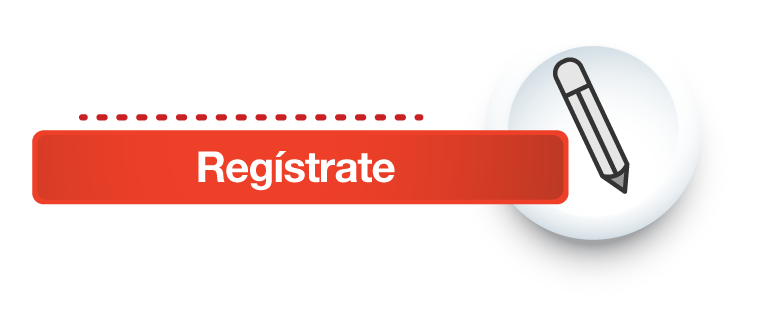
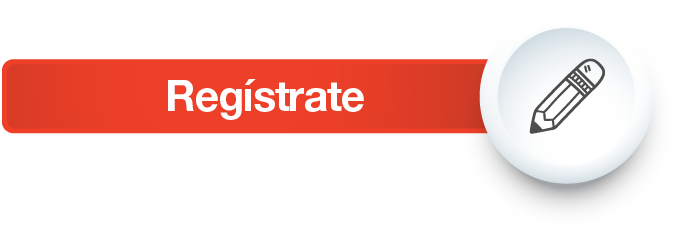
Ajustes cliente fiel y ganadores

Changed region(s): [[0.0, 0.1162, 0.9448, 0.8423]]

diff --git a/css/desktop-clientefiel.css b/css/desktop-clientefiel.css
@@ -30,10 +30,9 @@ a:hover, a:active, a:focus {
 }
 
 .nav .lrv-logo {
-  height: 30px;
-  align-self: flex-end;
-  margin-left: auto;
-  margin-bottom: 10px;
+  height: 50px;
+  margin-left: 50px;
+  margin-top: 10px;
 }
 
 
@@ -341,7 +340,7 @@ a:hover.banner-link {
 }
 
 .row-flex.menu {
-  justify-content: center;
+  justify-content: space-around;
   align-items: center;
   padding: 20px 0 0;
 }

diff --git a/css/desktop-concursos.css b/css/desktop-concursos.css
@@ -29,13 +29,15 @@ a:hover, a:active, a:focus {
   height: 70px;
 }
 
-.nav .lrv-logo {
-  height: 30px;
-  align-self: flex-end;
-  margin-left: auto;
-  margin-bottom: 10px;
+.bg-header {
+  background-image: url('../images/bg-header.png');
+  padding: 20px;
+background-size: cover;
 }
 
+.lrv-logo {
+  width: 180px;
+}
 
 .banner-text {
   top: 200px;

diff --git a/protected/views/campania/impormedical.php b/protected/views/campania/impormedical.php
@@ -120,7 +120,7 @@
   <section class="primera-seccion" style="height: initial;">
     <h1 style="font-size:35px; line-height: 42px;">Dispositivos para Profesionales de la Salud</h1>
     <p style="width: 90%;margin-bottom: 25px;color:#8B8B8B;text-align:center;">
-      Nuestro amplio portafolio de soluciones para profesionales de la salud, facilita la calidad en el servicio y favorece el cuidado de la salud en lo usuarios. La marca GMD brinda innovación, variedad de colores, variedad de productos, dentro de estos podemos encontrar fonendoscopios, tensiómetros, kit de órganos y sentidos, termómetros, martillos, linternas, entre otros.
+      Nuestro amplio portafolio de soluciones para profesionales de la salud, facilita la calidad en el servicio y favorece el cuidado de la salud en lo usuarios. La marca GMD brinda innovación, variedad de colores y variedad de productos, dentro de estos podemos encontrar fonendoscopios, tensiómetros, kit de órganos y sentidos, termómetros, martillos, linternas, entre otros.
     </p>
   </section>
   <div class="megacontainer">
@@ -385,7 +385,7 @@
   <img class="img-responsive banner" src="<?= Yii::app()->request->baseUrl ?>/images/contenido/impormedical/img_banner_ppal.jpg" alt="Para eliminar las imperfecciones">
   <section class="primera-seccion">
     <h1>Dispositivos para Profesionales de la Salud</h1>
-    <p>Nuestro amplio portafolio de soluciones para profesionales de la salud, facilita la calidad en el servicio y favorece el cuidado de la salud en lo usuarios. La marca GMD brinda innovación, variedad de colores, variedad de productos, dentro de estos podemos encontrar fonendoscopios, tensiómetros, kit de órganos y sentidos, termómetros, martillos, linternas, entre otros. </p>
+    <p>Nuestro amplio portafolio de soluciones para profesionales de la salud, facilita la calidad en el servicio y favorece el cuidado de la salud en lo usuarios. La marca GMD brinda innovación, variedad de colores y variedad de productos, dentro de estos podemos encontrar fonendoscopios, tensiómetros, kit de órganos y sentidos, termómetros, martillos, linternas, entre otros.</p>
   </section>
   <div class="megacontainer">
     <div class="contenedor-flex">
@@ -421,19 +421,21 @@
         </div>
         <div class="second-column">
           <h3>Kit de Tensiómetro + Fonendoscopio Rappaport GMD</h3>
-          <p>Es un instrumento de diagnóstico para la medición de la presión arterial y auscultaciones en general</p>
-          <p>Diseño y colores innovadores en presentación de estuche para fácil transporte y almacenamiento</p>
+          <ul>
+            <li>Es un instrumento de diagnóstico para la medición de la presión arterial y auscultaciones en general.</li>
+            <li>Diseño y colores innovadores en presentación de estuche para fácil transporte y almacenamiento.</li>
+          </ul>
           <div class="contenedor-colores">
-            <h4 style="Color:#444444;">Colores  Disponibles:</h4>
+            <h4 style="color:#444444;margin: 25px 0 0;font-size:15px;">Colores disponibles:</h4>
             <div class="cuadros-colores">
               <div class="item">
                 <div class="color-ceruleo"></div>
-                <span class="letradeloscolores">Azul Cerúleo</span>
+                <span class="letradeloscolores">Azul cerúleo</span>
               </div>
             </div>
             <div class="section-compra">
               <div class="column columna-precio"><h2>$00000</h2></div>
-              <div class="column columna-boton"><a href="#"><button class="boton-compra">Compra</button></a></div>
+              <div class="column columna-boton"><a href="#"><button class="boton-compra">Comprar</button></a></div>
             </div>
           </div>
         </div>
@@ -506,7 +508,7 @@
             <h4 class="centradotitulo"> Linterna de Diagnóstico GMD <br> &nbsp;</h4>
             <div class="div-flex">
               <div class="colum1">
-                <span class="textocolorproducto">Descripción: <br> Incorpora tecnología luz LED </span>
+                <span class="textocolorproducto">Descripción: <br> Incorpora tecnología luz LED <br> &nbsp;</span>
               </div>
               <div class="column2">
                 <div class="div-colores">
@@ -529,7 +531,7 @@
             <h4 class="centradotitulo"> Kit de Órganos y Sentidos con Fibra Óptica GMD</h4>
             <div class="div-flex">
               <div class="colum1">
-                <span class="textocolorproducto">Descripción: <br> Dos bases, dos cabezales</span>
+                <span class="textocolorproducto">Descripción: <br> Dos bases, dos cabezales <br> &nbsp;</span>
               </div>
               <div class="column2">
                 <div class="div-colores">
@@ -561,7 +563,7 @@
             <div class="div-flex">
               <div class="colum1">
                 <span class="textocolorproducto">Modelos:</span><br>
-                <span class="textocolorproducto">Rana, Oso, Flex II, Tempo II </span>
+                <span class="textocolorproducto">Rana, Oso, Flex II, Tempo II  <br> &nbsp;</span>
               </div>
 
             </div>
@@ -584,13 +586,15 @@
         </div>
         <div class="second-column">
           <h3>Sistema de Disección GMD </h3>
-          <p> Es un instrumento quirúrgico que contiene todos los elementos necesarios para llevar acabo estudios o procedimientos pequeños a nivel de anatomía o procedimientos incisivos</p>
-          <p>Todos sus piezas están fabricadas en acero inoxidable </p>
-          <p> Práctico estuche con cremallera   </p>
+          <ul>
+            <li> Es un instrumento quirúrgico que contiene todos los elementos necesarios para llevar acabo estudios o procedimientos pequeños a nivel de anatomía o procedimientos incisivos.</li>
+            <li>Todos sus piezas están fabricadas en acero inoxidable.</li>
+            <li> Práctico estuche con cremallera.</li>
+          </ul>
           <div class="contenedor-colores">
             <div class="section-compra">
               <div class="column columna-precio"><h2>$00000</h2></div>
-              <div class="column columna-boton"><a href="#"><button class="boton-compra">Compra</button></a></div>
+              <div class="column columna-boton"><a href="#"><button class="boton-compra">Comprar</button></a></div>
             </div>
           </div>
         </div>
@@ -624,13 +628,15 @@
         </div>
         <div class="second-column">
           <h3>Tijeras GMD </h3>
-          <p>Tijera trauma corta todo.</p>
-          <p>Utilizada principlamente en hospitales, clínicas, atención proehospitarlia, enfermería y primeros auxilios - Es un equipo indispensable en botiquines.</p>
-          <p> Es un equipo indispensable en botiquines y maletines de primeros auxilios. </p>
+          <ul>
+            <li>Tijera trauma corta todo.</li>
+            <li>Utilizada principlamente en hospitales, clínicas, atención prehospitarlia, enfermería y primeros auxilios.</li>
+            <li>Es un equipo indispensable en botiquines y maletines de primeros auxilios. </li>
+          </ul>
           <div class="contenedor-colores">
             <div class="section-compra">
               <div class="column columna-precio"><h2>$00000</h2></div>
-              <div class="column columna-boton"><a href="#"><button class="boton-compra">Compra</button></a></div>
+              <div class="column columna-boton"><a href="#"><button class="boton-compra">Comprar</button></a></div>
             </div>
           </div>
         </div>
@@ -664,13 +670,15 @@
       </div>
     </div>
     <div class="info-footer">
-      <div class="column footertexto">
-        <h1>¿Controlas la Presión con Exactitud?</h1>
-        <p style="color:#828282;font-size: 21px;">Conoce más sobre los productos de Control y Prevención <a href="#" style="color:#F2672A; text-decoration:underline;">aquí</a>  </p>
-      </div>
-      <div class="column footerimagen">
-        <img class="img-responsive" src="<?= Yii::app()->request->baseUrl ?>/images/contenido/impormedical/img_banner_prevencion.jpg" alt="Para eliminar las imperfecciones">
-      </div>
+      <a href="<?php echo CController::createUrl('/catalogo/producto', array('producto' => 117764)) ?> " style="color:inherit;">
+        <div class="column footertexto">
+          <h1>¿Controlas la Presión con Exactitud?</h1>
+          <p style="color:#828282;font-size: 21px;">Conoce más sobre los productos de Control y Prevención <a href="#" style="color:#F2672A; text-decoration:underline;">aquí</a>  </p>
+        </div>
+        <div class="column footerimagen">
+          <img class="img-responsive" src="<?= Yii::app()->request->baseUrl ?>/images/contenido/impormedical/img_banner_prevencion.jpg" alt="Para eliminar las imperfecciones">
+        </div>
+      </a>
     </div>
     <div class="contacto">
       <img class="img-responsive banner-footer" src="<?= Yii::app()->request->baseUrl ?>/images/contenido/impormedical/img_iconos_footer.png" alt="Para eliminar las imperfecciones">

diff --git a/protected/views/layouts/_d_clienteFiel.php b/protected/views/layouts/_d_clienteFiel.php
@@ -20,12 +20,12 @@
 </head>
 <body>
     <nav class="nav">
-      <div class="contenedor-flex">
+      <div class="contenedor-flex" style="display: flex; justify-content: center;">
       	<a title="Cliente Fiel - La Rebaja Virtual" href="<?php echo $this->createUrl('/clientefiel') ?>"><img class="img img-responsive clientefiel-logo" src="<?php echo Yii::app()->request->baseUrl; ?>/images/clientefiel/clientefiel.png" alt=""></a>
       	<a title="Drogueria - La Rebaja Virtual" href="<?php echo $this->createUrl('/') ?>"><img class="img img-responsive lrv-logo" src="<?php echo Yii::app()->request->baseUrl; ?>/images/clientefiel/lrv.png" alt=""></a>
       </div>
     </nav>
-	
+
     <div class="banner">
       <div class="contenedor-flex txt-banner">
         <h3 class="banner-text">El programa que te da 10% de descuento <br> <span class="emphasis">en todas tus compras*</span></h3>
@@ -36,12 +36,19 @@
     <div class="menu-principal">
       <div class="contenedor-flex">
         <div class="row-flex menu">
-            <div class="btn <?= ($this->menuActivo == 'index') ? 'btn-flat' : 'btn-primary' ?> btn-lg ">
-              <a href="<?php echo Yii::app()->createUrl('clientefiel/sitio/index') ?>">¿Comó funciona?</a>
-            </div>
-            <div class="btn <?= ($this->menuActivo == 'cuenta') ? 'btn-flat' : 'btn-primary' ?> btn-lg " type="button" name="button">
-                <a href="<?php echo Yii::app()->createUrl('clientefiel/registro/realizarRegistro') ?>">Regístrate</a>
-            </div>
+          <div class="">
+            <a href="<?php echo Yii::app()->createUrl('clientefiel/sitio/index') ?>">
+              <img class="img-responsive" width="400" src="<?php echo Yii::app()->request->baseUrl; ?>/images/clientefiel/boton-funciona.png" alt="Como funciona">
+            </a>
+          </div>
+
+          <div class="">
+            <a href="<?php echo Yii::app()->createUrl('clientefiel/registro/realizarRegistro') ?>">
+              <img class="img-responsive" width="400" src="<?php echo Yii::app()->request->baseUrl; ?>/images/clientefiel/boton-registrate.png" alt="Registrarse">
+            </a>
+          </div>
+
+
         </div>
       </div>
     </div>

diff --git a/protected/views/layouts/_d_concursos.php b/protected/views/layouts/_d_concursos.php
@@ -20,17 +20,21 @@
 </head>
 <body>
 
-<img class="img-responsive" src="<?php echo Yii::app()->request->baseUrl; ?>/images/barra-sup-ganadores.png">
+<div class="bg-header">
+  <a title="Drogueria - La Rebaja Virtual" href="<?php echo $this->createUrl('/') ?>">
+    <img class="lrv-logo" src="<?php echo Yii::app()->request->baseUrl; ?>/images/clientefiel/lrv.png" alt="">
+  </a>
+</div>
 <img class="img-responsive" src="<?php echo Yii::app()->request->baseUrl; ?>/images/banner-ganadores.png">
 
 <div class="menu-principal">
-  <div class="contenedor-flex">
-      <div class="btn btn-primary btn-lg" style="padding: 10px 55px;">
-        <a href="http://localhost/lrv/sitio/reglamentos">Reglamentos</a>
-      </div>
-      <div class="btn btn-flat btn-lg">
-        <a href="http://localhost/lrv/sitio/ganadores">Ganadores</a>
-      </div>
+  <div class="contenedor-flex" style="justify-content: space-around; align-items: center; padding: 20px 0 0;">
+    <a href="<?php echo Yii::app()->createUrl('/sitio/reglamentos') ?>">
+      <img width="400" src="<?php echo Yii::app()->request->baseUrl; ?>/images/btn-reglamentos.png" alt="">
+    </a>
+    <a href="<?php echo Yii::app()->createUrl('/sitio/ganadores') ?>">
+      <img width="400" src="<?php echo Yii::app()->request->baseUrl; ?>/images/btn-ganadores.png" alt="">
+    </a>
   </div>
 </div>
 
